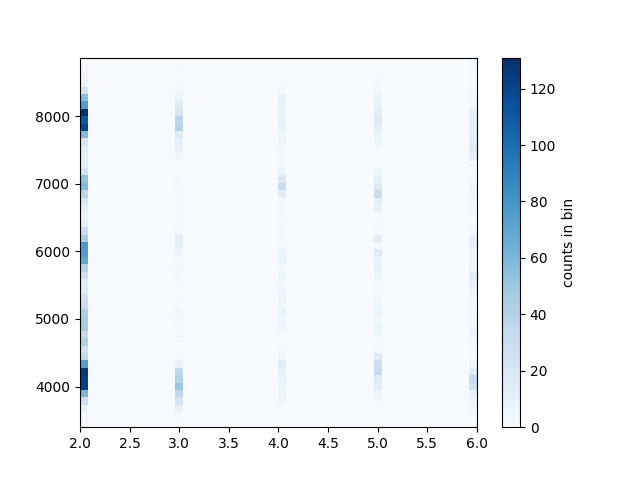
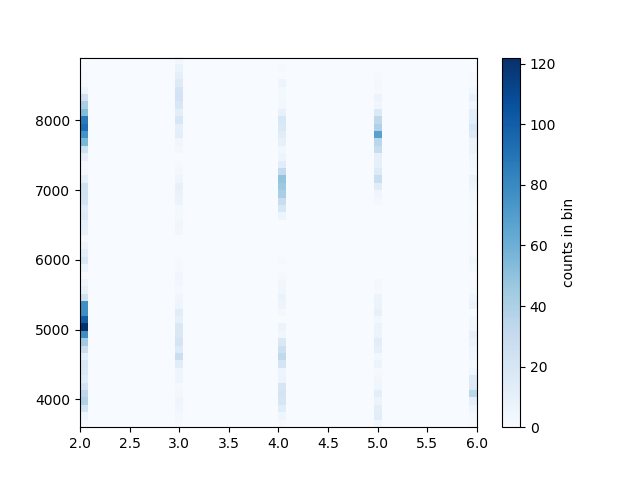
minor changes, about to produce conc, freq plots

diff --git a/environment.py b/environment.py
@@ -42,26 +42,6 @@ class Environment(object):
 		self.av_dormancy_time = []
 		self.immune_system = 3000
 
-	def width(self):
-		return self.width
-
-	def set_width(self):
-		self.width = width
-		return
-
-	def height(self):
-		return self.height
-
-	def set_height(self):
-		self.height = height
-		return
-
-	def food(self):
-		return self.food
-	
-	def remove_food(self, key):
-		del self.food[key]
-
 
 	def addfood(self, food_coverage):
 		amount = 0
@@ -78,7 +58,7 @@ class Environment(object):
 
 	def add_agent(self, agent):
 		self.agents[agent.key] = agent
-#resistance = np.random.choice([0, 1], p = [0.1, 0.9]), 
+		
 	def add_agents(self, number_of_agents = 10, size = 3.0):
 		for i in range(number_of_agents):
 			x = random.randint(size, self.width - size)
@@ -98,7 +78,7 @@ class Environment(object):
 		self.anti_conc = concentration
 		takeClosest = lambda num,collection:min(collection,key=lambda x:abs(x-num))
 		squares = [1,4,9,16,25,36,49,64,81,100]
-		amount = takeClosest(np.sqrt(self.area),squares) * 2
+		amount = takeClosest(np.sqrt(self.area),squares)
 		anti_radius = np.sqrt((concentration*self.area)/(amount * math.pi))
 		coordinates = []
 
@@ -151,11 +131,7 @@ class Environment(object):
 
 			for i in self.antibiotics:
 				i.display(self.screen)
-				
-
 				i.effectiveness = (np.e)**(-(self.time_ms-self.tbirths[-1])/self.anti_halflife)
-				#print(i.effectiveness)
-
 				if i.effectiveness < 0.001:
 					self.antibiotics.remove(i)
 					#print("deleted")
@@ -172,7 +148,7 @@ class Environment(object):
 				for i in range(int(0.1*len(self.agents))):
 					if self.agents:
 						del self.agents[random.choice(list(self.agents.keys()))]
-						print("immune_system", i)
+
 
 			for i in self.agents: 
 				#print(i)

diff --git a/main.py b/main.py
@@ -14,19 +14,19 @@ import pandas as pd
 envirox = 900
 enviroy = 600
 enviro = env.Environment(envirox, enviroy)
-enviro.addfood(0.00) #parameter is food_coverage as a proportion
+enviro.addfood(0.1) #parameter is food_coverage as a proportion
 
 enviro.add_agents(100) #100?
-enviro.add_antibiotics(0.01, 43200/4, 14400/4) #concentration, time between dose(s) , halflife of dose
+enviro.add_antibiotics(0.1, 43200/4, 14400/4) #concentration, time between dose(s) , halflife of dose
 # #enviro.add_antibiotics(0.2, 13000, 1000) #concentration, time between dose, halflife of dose
-data = enviro.display(1200000) #24 hours = 86400
+#data = enviro.display(1200000) #24 hours = 86400
 #plots.histogram(data)
-# #plots.LV_plots(data)
-# # df=enviro.plot()
+#plots.LV_plots(data)
+#df=enviro.plot()
 # plots.plot(df)
 # print(data)
 #plots.population(data)
 #plots.antibiotic_conc_v_population(data)
 
-#df = pd.read_csv('bacteria_wo_antibiotics.csv', low_memory=False)
-#plots.LV_plots(df)
+df = pd.read_csv('bacteria_wo_antibiotics.csv', low_memory=False)
+plots.LV_plots(df)
